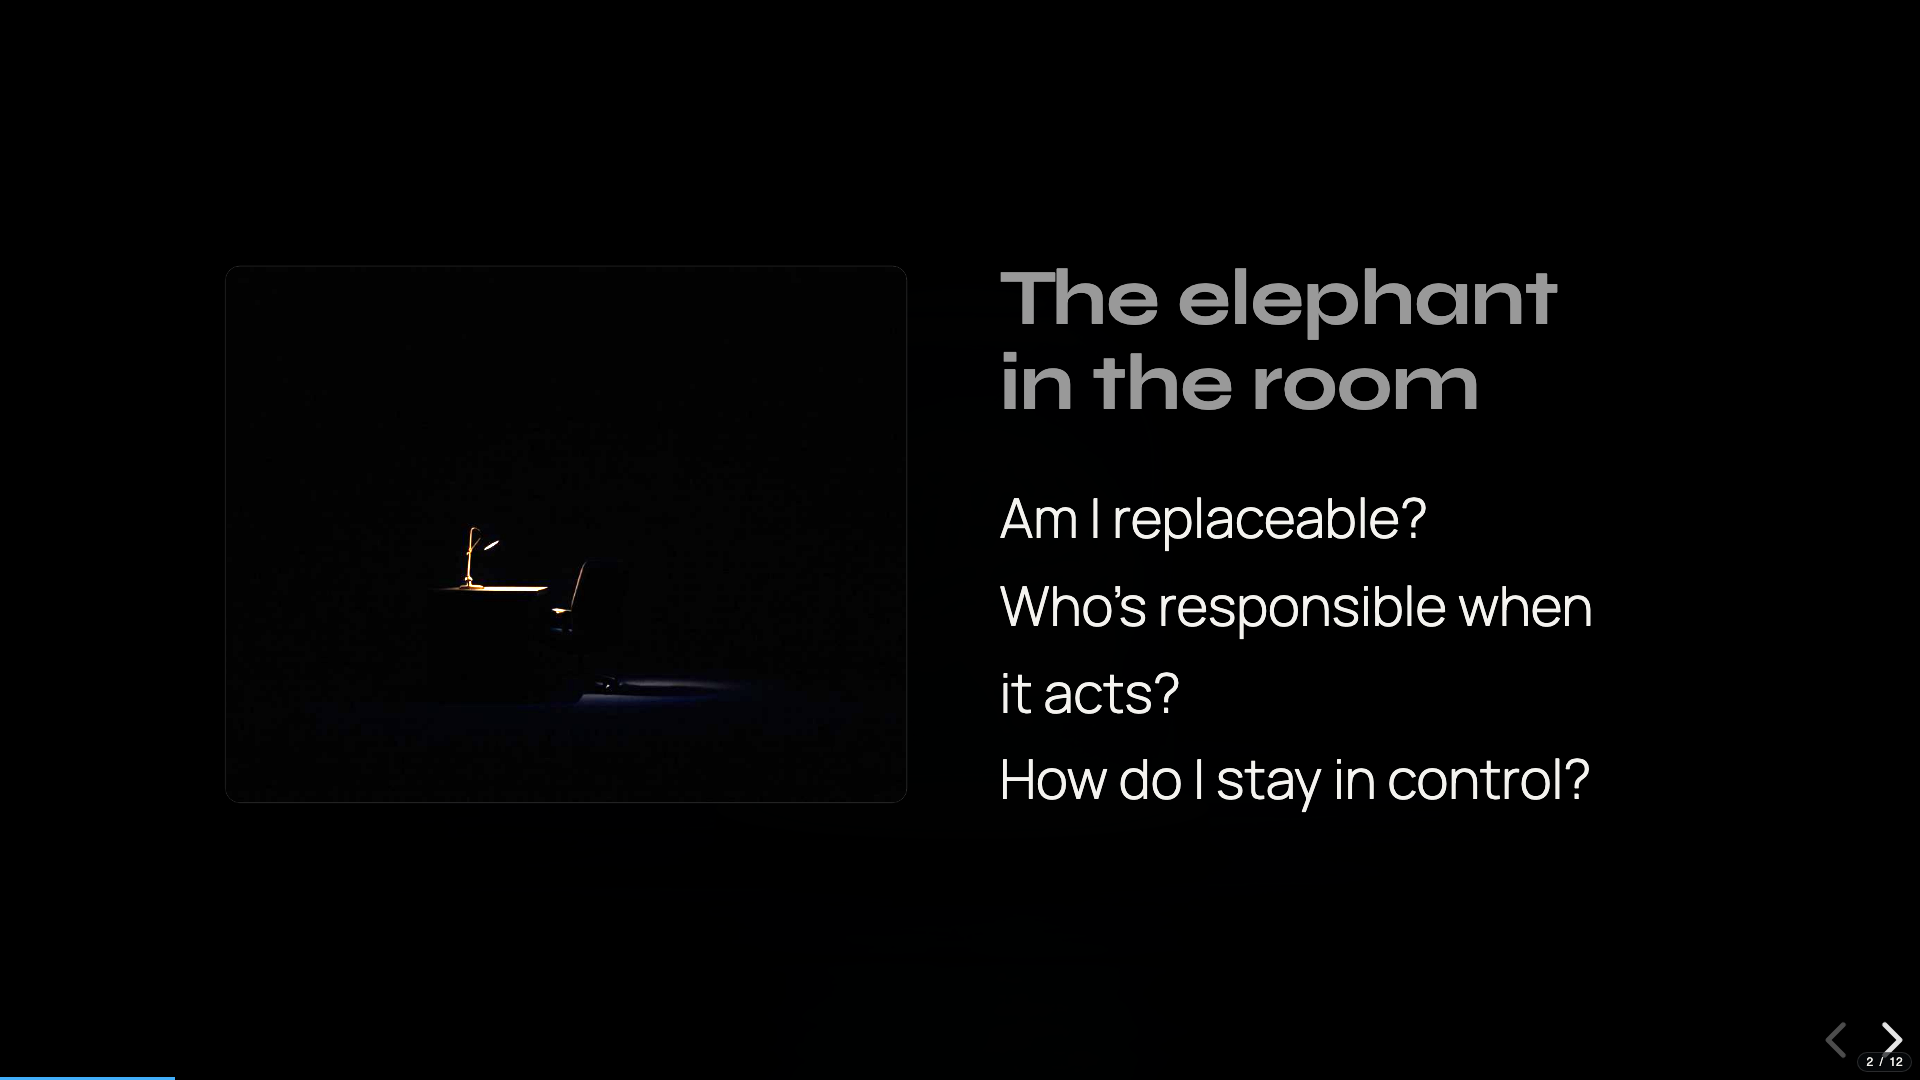
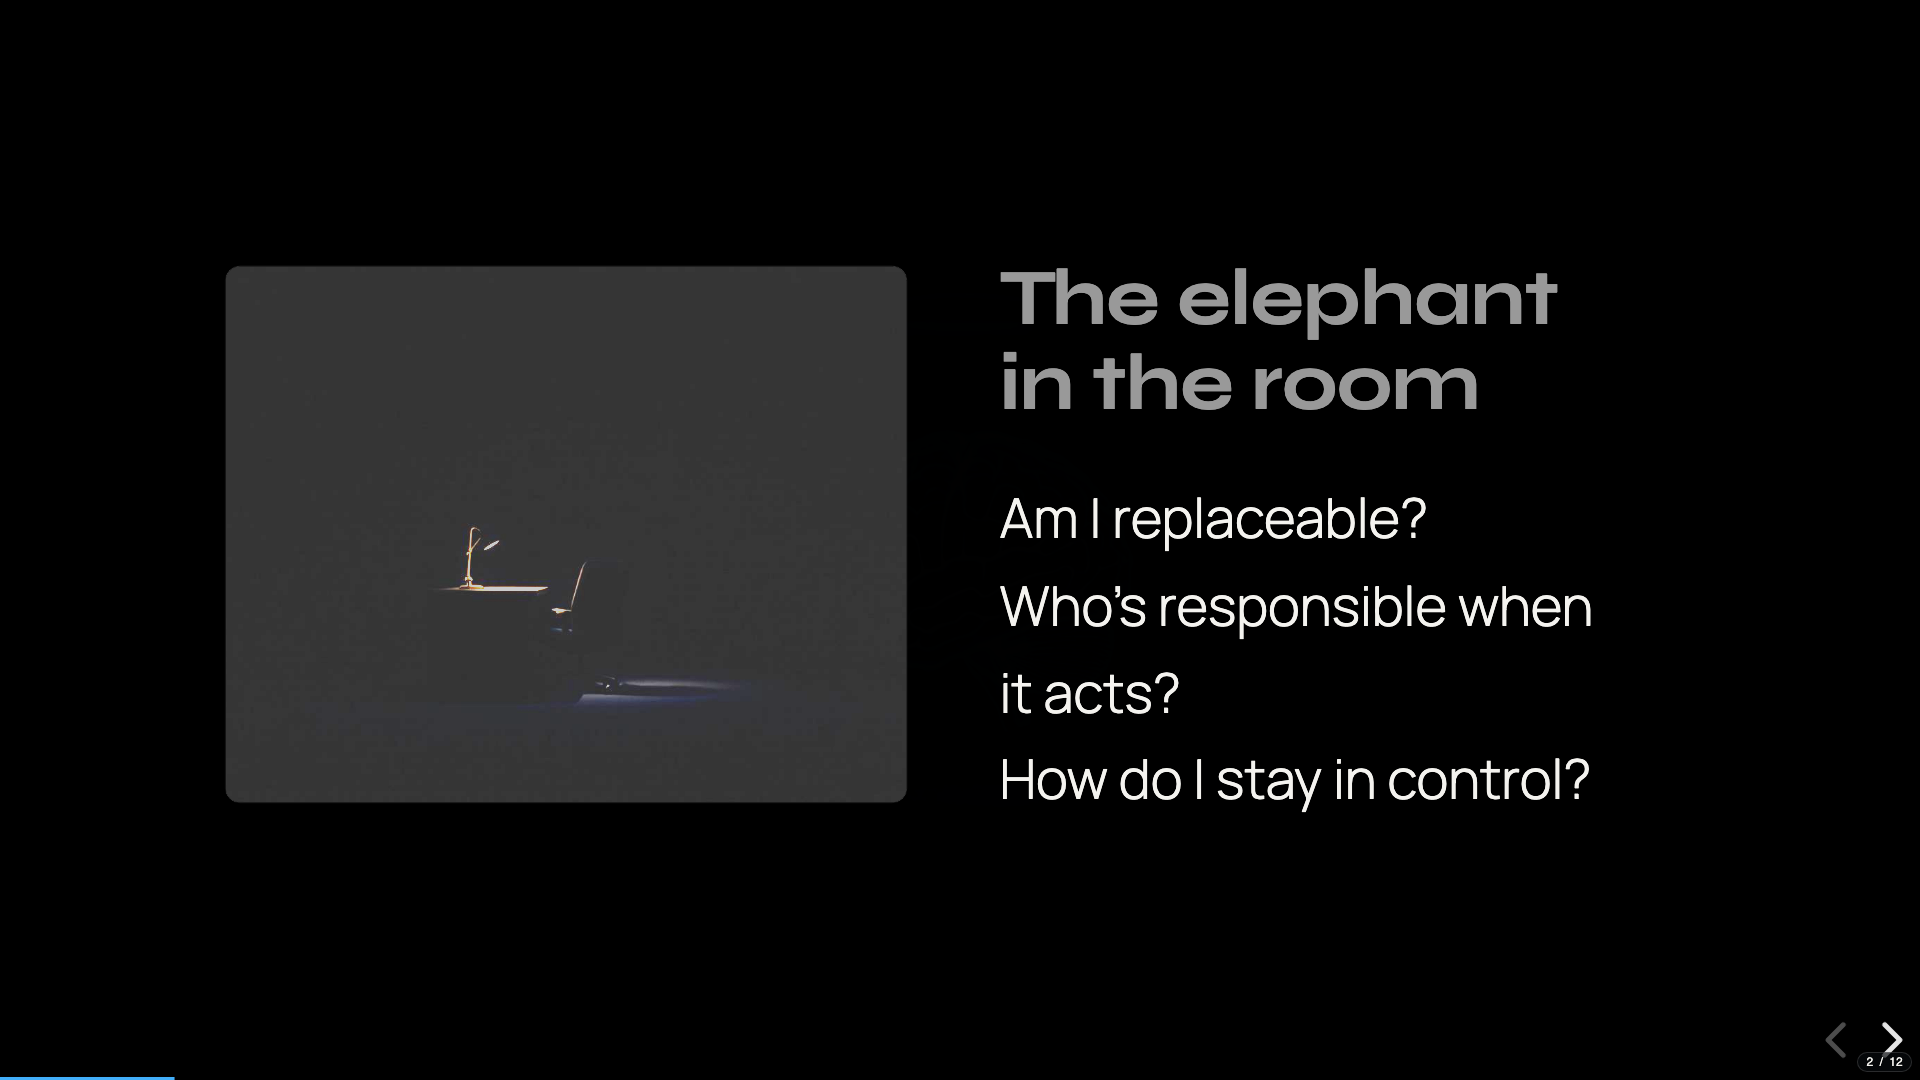
fix: slide 2 — boost brightness and lift shadows for visibility

Changed region(s): [[0.0938, 0.2444, 0.4688, 0.7639]]

diff --git a/pres.html b/pres.html
@@ -31,7 +31,7 @@
       <section data-background-color="#000">
         <div style="display:flex; align-items:center; justify-content:center; gap:80px; max-width:1600px; margin:0 auto;">
           <div style="flex:0 0 auto;">
-            <img src="images/02-elephant-chair.jpg" style="width:760px; height:570px; border-radius:16px; filter:brightness(2.2); object-fit:cover; object-position:30% 65%; border:1px solid rgba(255,255,255,0.1);" alt="">
+            <img src="images/02-elephant-chair.jpg" style="width:760px; height:570px; border-radius:16px; filter:brightness(3.5) contrast(0.6); object-fit:cover; object-position:30% 65%; border:1px solid rgba(255,255,255,0.1);" alt="">
           </div>
           <div style="text-align:left;">
             <h2 style="margin-bottom:0.6em; opacity:0.6;">The elephant in the room</h2>
